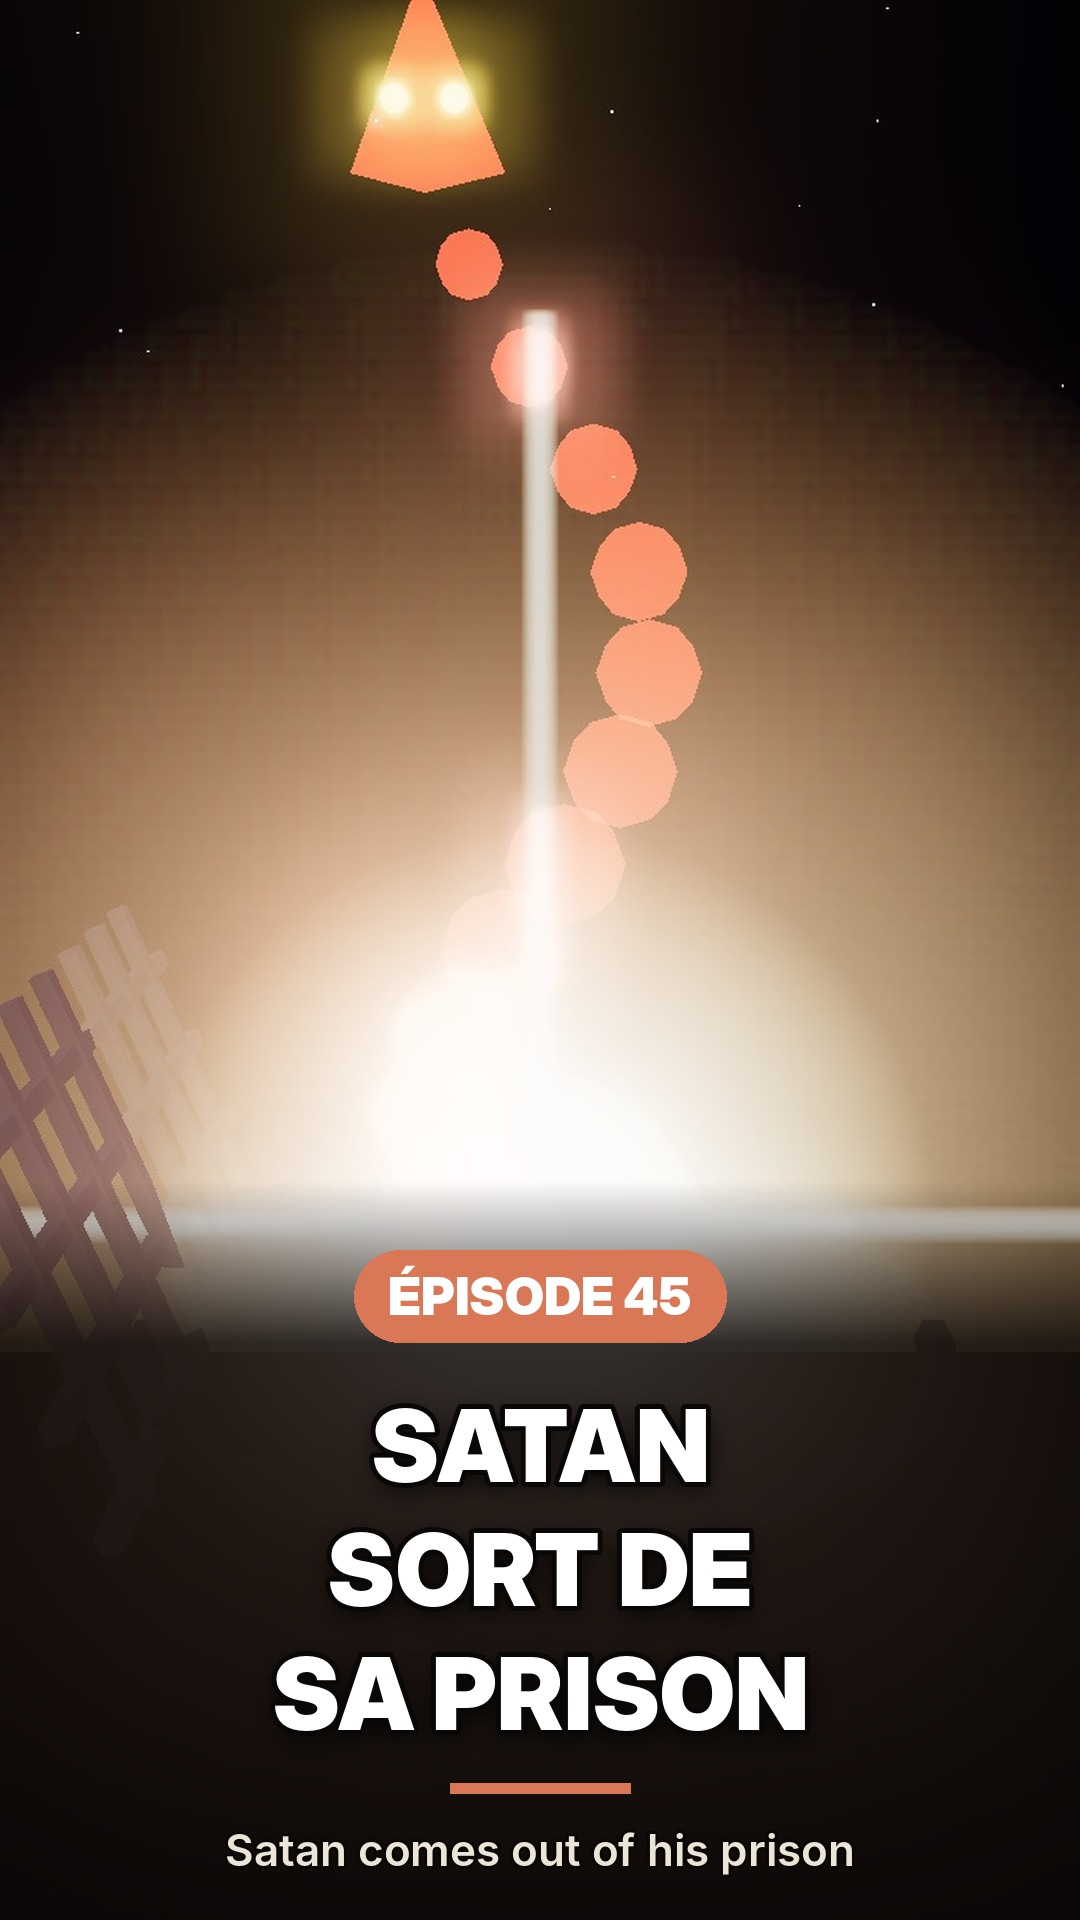
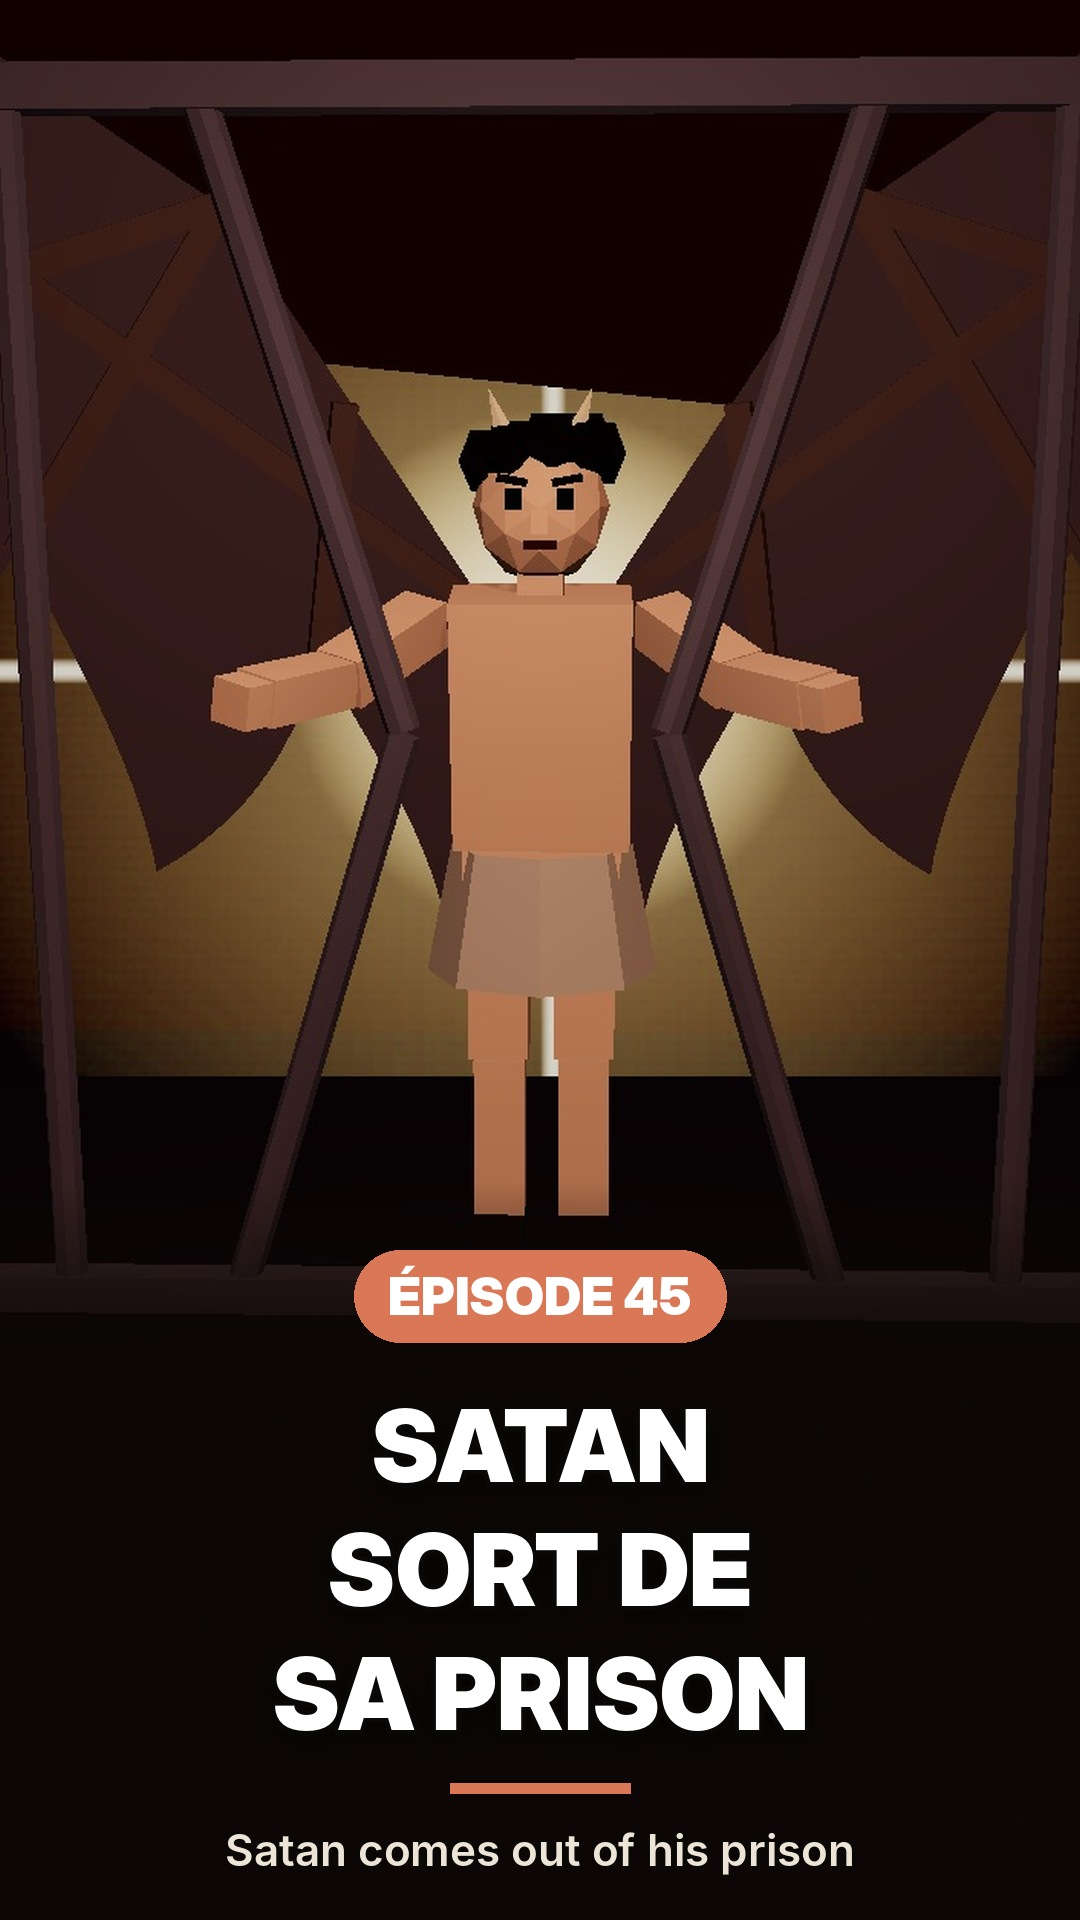
Ep45 (proposition) : diable d'après Gustave Doré (couverture et scènes), en attente de validation avant rendu
Claude-Session: https://claude.ai/code/session_01MdC9EGaBDjoz67bNkp4Ljj

diff --git a/ep45/web/body.js b/ep45/web/body.js
@@ -226,11 +226,41 @@ function army(scene, n, R0, R1, cx = 0, cz = 0, color = 0x2a2430) {
   return arr;
 }
 
+// le diable d'apres Gustave Dore (Paradis perdu, 1866) : homme muscle torse nu, cheveux boucles, petites cornes, pagne, grandes ailes de chauve-souris
+function batWing(sx) {
+  const sh = new THREE.Shape(); sh.moveTo(0, 0);
+  const tip = [1.25, 0.95], pts = [[0.35, 0.55], [0.8, 0.85], tip];
+  pts.forEach(p => sh.lineTo(p[0], p[1]));
+  // bord inferieur festonne
+  const lows = [[1.05, 0.35], [0.95, -0.05], [0.65, 0.12], [0.5, -0.35], [0.25, -0.05], [0.08, -0.45]];
+  let prev = tip; lows.forEach((p, i) => { sh.quadraticCurveTo((prev[0] + p[0]) / 2 - 0.06, (prev[1] + p[1]) / 2 - 0.06, p[0], p[1]); prev = p; });
+  sh.lineTo(0, -0.1); sh.lineTo(0, 0);
+  const g = new THREE.Group();
+  const mem = new THREE.Mesh(new THREE.ShapeGeometry(sh), M(0x4a3e42, { side: THREE.DoubleSide, emissive: new THREE.Color(0x1c1416) })); mem.scale.x = sx; g.add(mem);
+  const bone = M(0x5a4a48);
+  [[0, 0, ...tip], [0.35, 0.55, 1.05, 0.35], [0.35, 0.55, 0.65, 0.12], [0.2, 0.3, 0.25, -0.05]].forEach(([x0, y0, x1, y1]) => { const l = Math.hypot(x1 - x0, y1 - y0); const b = box(l, 0.035, 0.035, bone); b.position.set(sx * (x0 + x1) / 2, (y0 + y1) / 2, 0.01); b.rotation.z = sx * Math.atan2(y1 - y0, x1 - x0); g.add(b); });
+  return g;
+}
+function devil(o = {}) {
+  const g = new THREE.Group();
+  const h = new Human({ skin: 0xd8b49a, hair: 0x1a1210, hairStyle: 'curly', top: 0xd8b49a, bottom: 0xd8b49a, shortSleeve: true, seed: 4520 });
+  g.add(h.root);
+  // pagne
+  const cloth = new THREE.Mesh(new THREE.CylinderGeometry(0.21, 0.27, 0.3, 8, 1, true), M(0xb8b0a4, { side: THREE.DoubleSide })); cloth.position.y = -0.1; h.pelvis.add(cloth);
+  // petites cornes dans les boucles
+  for (const s of [-1, 1]) { const c = new THREE.Mesh(new THREE.ConeGeometry(0.03, 0.12, 6), M(0xd8ccb0)); c.position.set(s * 0.09, 0.36, 0.06); c.rotation.z = -s * 0.35; h.neck.add(c); }
+  // ailes
+  const wings = [-1, 1].map(sx => { const w = batWing(sx); w.position.set(sx * 0.12, 0.5, -0.16); w.scale.setScalar(o.wing ?? 1.4); h.spine.add(w); return w; });
+  g.userData = { h, wings, tick: (t, k = 1) => wings.forEach((w, i) => { w.rotation.y = (i ? -1 : 1) * (0.35 + 0.12 * Math.sin(t * 2.2) * k); w.rotation.z = (i ? 1 : -1) * 0.05 * Math.sin(t * 2.2) * k; }) };
+  g.userData.tick(0);
+  return g;
+}
+
 // ---------- intro : la grille de la prison s'ouvre
 SETS.intro = () => {
   const B = nightSet({ fog: [0x0a0814, 10, 60], exposure: 1.0 }); const { scene, cam } = B;
   const pit = pitSet(scene, [0, 0, -4]);
-  const sp = serpent(); sp.position.set(0, -4, -4); scene.add(sp);
+  const sp = devil(); sp.position.set(0, -2.6, -4); scene.add(sp);
   const rig = claudeRig(scene, [1.1, -0.2, 1.4], -0.5, [-0.45, 0, 0.1], 0xffd070, 0.45, 0.28); faceLight(scene, [0.9, 0.6, 2.8], 1.0);
   scene.add(at(new THREE.Mesh(new THREE.CylinderGeometry(1.0, 1.1, 0.15, 10), M(0x2a2430)), 1.0, -0.28, 1.4));
   const back = label('◀ une scène avant', { w: 0.8, h: 0.12, color: '#ffd070', font: 'bold 80px Inter' }); rig.holoG.add(back);
@@ -239,7 +269,7 @@ SETS.intro = () => {
   return {
     ...B, update(t) {
       const o = sstep(3, 6, t); pit.userData.lid.rotation.z = -1.4 * o; pit.userData.lid.position.x = -1.6 * o; pit.userData.red.material.opacity = 0.3 + 0.7 * o;
-      sp.position.y = -4 + 3.6 * sstep(4.5, 8.5, t); sp.userData.tick(t); fade(sp, sstep(4.5, 5.5, t) * (1 - 0.8 * win(t, C.serie, C.title + 1, 0.5, 0.5))); pit.userData.red.material.opacity *= 1 - 0.6 * win(t, C.serie, C.title + 1, 0.5, 0.5);
+      sp.position.y = -2.6 + 2.6 * sstep(4.5, 8.5, t); sp.userData.tick(t); sp.userData.h.pose({ aL: [0.5, 0.5], aR: [0.5, 0.5], hp: -0.1 }); sp.userData.h.face(0, 'serious', t); fade(sp, sstep(4.5, 5.5, t) * (1 - 0.8 * win(t, C.serie, C.title + 1, 0.5, 0.5))); pit.userData.red.material.opacity *= 1 - 0.6 * win(t, C.serie, C.title + 1, 0.5, 0.5);
       const bk = win(t, C.serie + 0.3, C.title, 0.3, 0.3); beamOn(rig, bk, t); fade(back, bk); back.lookAt(cam.position); rig.c.update(t, env('claude', t), {});
       camKeys(cam, t, [{ t: 0, p: [0, 3.0, 3.5], l: [0, 0, -4], f: 50 }, { t: C.serie, p: [0, 2.2, 4.6], l: [0, 1.6, -4], f: 50 }, { t: C.serie + 0.8, p: [0.9, 0.5, 4.2], l: [0.6, 0.1, 0], f: 48 }, { t: SC.prison.start, p: [0.8, 0.5, 4.0], l: [0.6, 0.1, 0], f: 48 }]);
       K.update(t);
@@ -251,7 +281,7 @@ SETS.intro = () => {
 SETS.prison = () => {
   const B = nightSet({ fog: [0x0a0814, 10, 60], exposure: 1.0 }); const { scene, cam } = B;
   const pit = pitSet(scene, [0, 0, -3.5]); pit.userData.lid.rotation.z = -1.4; pit.userData.lid.position.x = -1.6; pit.userData.red.scale.setScalar(3);
-  const sp = serpent(); sp.position.set(0, 0.3, -3.5); scene.add(sp);
+  const sp = devil(); sp.position.set(0, 0, -3.5); scene.add(sp);
   const j = john(); j.place(1.4, 0, 0.8, -0.5); scene.add(j.root); faceLight(scene, [1.0, 1.6, 3.4], 1.2);
   const mil = label('1 000', { w: 2.2, h: 0.8, color: '#ffd070', font: 'bold 400px Inter' }); mil.position.set(-0.8, 3.2, -4); scene.add(mil);
   const tl = new THREE.Group(); tl.position.set(-0.4, 3.0, -2.0); scene.add(tl);
@@ -264,7 +294,7 @@ SETS.prison = () => {
   K('Apocalypse 20, 3 : « relâché pour un peu de temps »', { w: 1.6, h: 0.24, border: '#ff8a5a' }, t => win(t, C.pourquoi + 3, SC.gog.start, 0.3, 0.2), -0.6);
   return {
     ...B, update(t) {
-      const T0 = SC.prison.start; sp.userData.tick(t); sp.position.x = 1.3 * win(t, C.millenaire, C.pourquoi + 1, 1, 1) + 0.8 * sstep(C.pourquoi, SC.gog.start, t);
+      const T0 = SC.prison.start; sp.userData.tick(t); sp.userData.h.pose({ aL: [0.3, 0.35], aR: [0.3, 0.35], hp: 0.05 }); sp.userData.h.face(0, 'serious', t); sp.position.x = 1.3 * win(t, C.millenaire, C.pourquoi + 1, 1, 1) + 0.8 * sstep(C.pourquoi, SC.gog.start, t);
       fade(mil, win(t, C.millenaire, C.augustin, 0.5, 0.5)); fade(tl, win(t, C.augustin + 0.5, C.pourquoi, 0.5, 0.5));
       j.pose({ hp: 0.05 }); j.face(0, t > C.pourquoi ? 'awe' : 'fear', t);
       camKeys(cam, t, [{ t: T0, p: [0.8, 2.2, 4.2], l: [0, 1.8, -3.5], f: 50 }, { t: C.millenaire, p: [0, 2.6, 5.5], l: [-0.4, 2.8, -3.5], f: 52 }, { t: C.pourquoi - 0.3, p: [0, 2.6, 5.5], l: [-0.4, 2.8, -3.5], f: 52 }, { t: C.pourquoi + 1.5, p: [1.6, 1.6, 3.6], l: [1.2, 1.5, 0.6], f: 48 }, { t: SC.gog.start, p: [1.8, 1.8, 4.2], l: [0.6, 2.0, -2], f: 50 }]);
@@ -337,7 +367,7 @@ SETS.diable = () => {
   const B = nightSet({ fog: [0x0a0814, 10, 60], exposure: 1.0 }); const { scene, cam } = B;
   const glowL = new THREE.Mesh(new THREE.PlaneGeometry(60, 3), new THREE.MeshBasicMaterial({ color: 0xff6a20, transparent: true, opacity: 0.6, fog: false, depthWrite: false, blending: THREE.AdditiveBlending })); glowL.position.set(0, 0.6, -30); scene.add(glowL);
   const lake = new THREE.Mesh(new THREE.PlaneGeometry(30, 10), G(0xff5a10, 0.9)); lake.rotation.x = -Math.PI / 2; lake.position.set(0, 0.02, -24); scene.add(lake);
-  const sp = serpent(); scene.add(sp); const tag = card('LE DIABLE', { w: 1.0, h: 0.2, border: '#ff4a3a' }); scene.add(tag);
+  const sp = devil(); scene.add(sp); const tag = card('LE DIABLE', { w: 1.0, h: 0.2, border: '#ff4a3a' }); scene.add(tag);
   const beast = orb('LA BÊTE', 0x5a2a2a), prophet = orb('LE FAUX PROPHÈTE', 0x3a2a5a); beast.position.set(-1.6, 2.4, -6); prophet.position.set(1.6, 2.4, -6); scene.add(beast); scene.add(prophet);
   const tree = new THREE.Group(); tree.position.set(-0.6, 0, 0); scene.add(tree); tree.add(at(new THREE.Mesh(new THREE.CylinderGeometry(0.1, 0.15, 1.6, 8), holoMat(0x7aff9a, 0.25)), 0, 0.8, 0)); tree.add(at(new THREE.Mesh(new THREE.IcosahedronGeometry(0.8, 1), holoMat(0x7aff9a, 0.15)), 0, 2.0, 0));
   const eve = new Human({ holo: 0x9adfff, hairStyle: 'long', seed: 4510 }); eve.place(0.4, 0, 0.3, -0.4); scene.add(eve.root);
@@ -348,8 +378,8 @@ SETS.diable = () => {
   return {
     ...B, update(t) {
       const T0 = SC.diable.start; const u = sstep(T0 + 2, T0 + 6.5, t);
-      sp.position.set(0.5 - 0.5 * u, 1.0 + 2.5 * Math.sin(Math.PI * u) - 1.0 * u, -2 - 20 * u); sp.userData.tick(t, 0.6); fade(sp, 1 - sstep(0.92, 1, u)); sp.scale.setScalar(0.6);
-      tag.position.copy(sp.position).add(new THREE.Vector3(0, 3.4 * 0.6 + 0.4, 0)); tag.quaternion.copy(cam.quaternion); fade(tag, 1 - sstep(0.6, 0.9, u));
+      sp.position.set(0.5 - 0.5 * u, 1.0 + 2.5 * Math.sin(Math.PI * u) - 1.0 * u, -2 - 20 * u); sp.userData.tick(t * 2, 1.5); sp.userData.h.pose({ aL: [2.4, 0.4], aR: [2.4, 0.4], lean: -0.3 }); sp.userData.h.face(0, 'fear', t); fade(sp, 1 - sstep(0.92, 1, u)); sp.scale.setScalar(0.8);
+      tag.position.copy(sp.position).add(new THREE.Vector3(0, 2.3, 0)); tag.quaternion.copy(cam.quaternion); fade(tag, 1 - sstep(0.6, 0.9, u));
       glowL.material.opacity = 0.4 + 0.3 * win(t, T0 + 6.3, T0 + 9, 0.3, 2) + 0.05 * Math.sin(t * 5);
       const ed = win(t, C.seducteur + 1, C.bete, 0.5, 0.5); fade(tree, ed); fade(eve.root, ed * 0.5); fade(sp2, ed); sp2.userData.tick(t, 0.5); eve.pose({ aR: [1.0, 0.1], eR: 0.4 });
       const bp = win(t, C.bete, SC.fin.start + 0.5, 0.6, 0.3); fade(beast, bp); fade(prophet, bp); beast.children[0].rotation.y = t; prophet.children[0].rotation.y = -t;
@@ -383,10 +413,18 @@ SETS.fin = () => {
 
 // ---------- couverture : la grille arrachee, la lueur rouge, le serpent qui sort
 SETS.cover = () => {
-  const B = nightSet({ fog: [0x0a0814, 10, 60], exposure: 1.1, bloom: [0.9, 0.6, 0.7] }); const { scene, cam } = B;
-  const pit = pitSet(scene, [0, 0, -3.5]); pit.userData.lid.rotation.z = -1.2; pit.userData.lid.position.x = -1.5; pit.userData.red.scale.setScalar(8);
-  const sp = serpent(); sp.position.set(0, 0.2, -3.5); sp.userData.tick(2.2); scene.add(sp);
-  return { ...B, update() { cam.position.set(0, 3.2, 3.2); cam.fov = 58; cam.updateProjectionMatrix(); cam.lookAt(0, 1.6, -3.5); } };
+  const B = nightSet({ fog: [0x0a0814, 10, 60], exposure: 1.0, bloom: [0.6, 0.5, 0.82], hemi: [0xffd0c0, 0x10101a, 0.8], sun: [0xffc0a0, 1.0, [1, 4, 6]] }); const { scene, cam } = B;
+  scene.add(at(box(8, 5, 0.2, M(0x2a1010, { emissive: new THREE.Color(0x1a0404) })), 0, 2, -2.6));
+  const red = glowStar(4, 0xff6a3a); red.position.set(0, 1.2, -2.3); scene.add(red);
+  const d = devil({ wing: 1.6 }); d.position.set(0, 0, -0.8); scene.add(d); const h = d.userData.h;
+  d.userData.wings.forEach((w, i) => { w.rotation.y = (i ? -1 : 1) * 0.25; });
+  h.pose({ lean: 0.15, hp: -0.1, aL: [1.3, 0.55], eL: 0.3, aR: [1.3, 0.55], eR: 0.3 }); h.face(0, 'serious', 0);
+  const iron = M(0x5a5460, { emissive: new THREE.Color(0x100c10) });
+  scene.add(at(box(3.2, 0.08, 0.08, iron), 0, 2.45, -0.25)); scene.add(at(box(3.2, 0.08, 0.08, iron), 0, 0.05, -0.25));
+  [-1.4, -1.0, 1.0, 1.4].forEach(x => scene.add(at(new THREE.Mesh(new THREE.CylinderGeometry(0.035, 0.035, 2.4, 8), iron), x, 1.25, -0.25)));
+  for (const sx of [-1, 1]) { const lo = new THREE.Mesh(new THREE.CylinderGeometry(0.035, 0.035, 1.25, 8), iron); lo.position.set(sx * 0.45, 0.65, -0.25); lo.rotation.z = sx * 0.3; scene.add(lo); const hi = new THREE.Mesh(new THREE.CylinderGeometry(0.035, 0.035, 1.25, 8), iron); hi.position.set(sx * 0.45, 1.85, -0.25); hi.rotation.z = -sx * 0.3; scene.add(hi); }
+  faceLight(scene, [0, 1.9, 0.6], 1.6, 0xffd8c0);
+  return { ...B, update() { cam.position.set(0.1, 1.7, 3.6); cam.fov = 54; cam.updateProjectionMatrix(); cam.lookAt(0, 0.7, -0.6); } };
 };
 
 const SHOTS = [['intro', 0, SC.prison.start], ['prison', SC.prison.start, SC.gog.start], ['gog', SC.gog.start, SC.camp.start], ['camp', SC.camp.start, SC.diable.start], ['diable', SC.diable.start, SC.fin.start], ['fin', SC.fin.start, 1000], ['cover', 1000, 1e9]];
